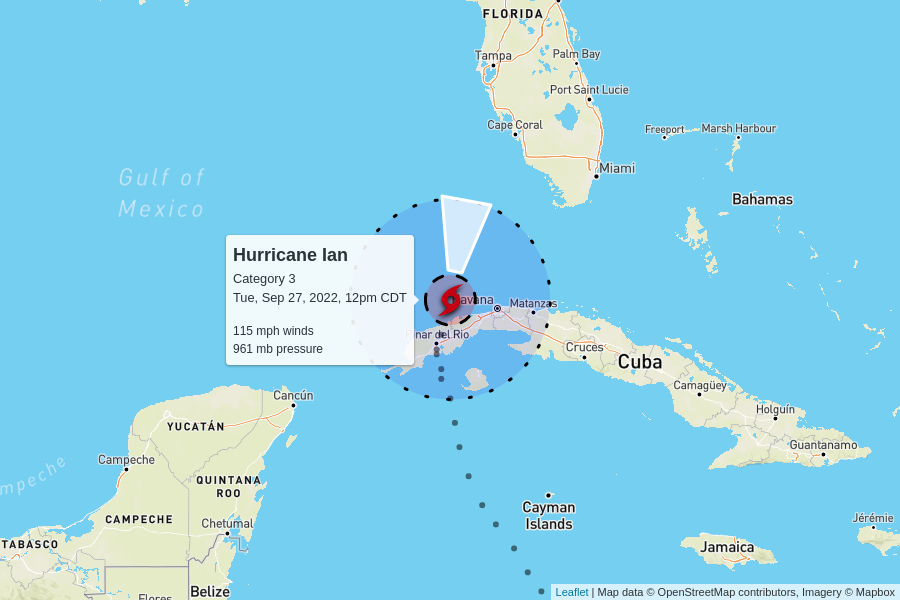
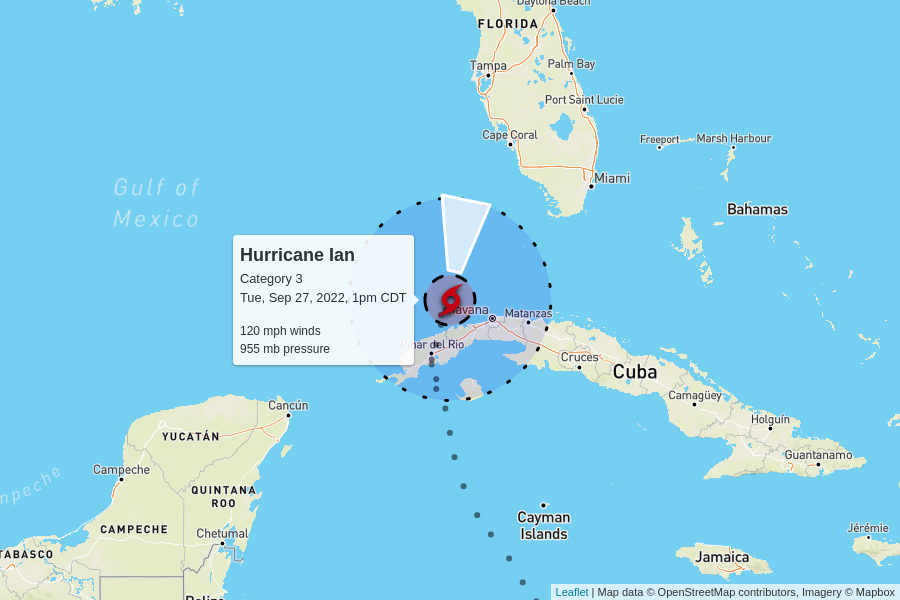
automatic update

diff --git a/docs/index.html b/docs/index.html
@@ -100,7 +100,7 @@
         <td colspan="6" class="storm category-3" >
           <h2>
             Hurricane Ian - Category 3
-            <p class="updated">last updated <span data-time>2022-09-27T17:00:00.000Z</span></p>
+            <p class="updated">last updated <span data-time>2022-09-27T18:00:00.000Z</span></p>
           </h2>
         </td>
       </tr>
@@ -115,8 +115,8 @@
       </tr>
       <tr>
         <td class="spacer"></td>
-        <td>115 mph</td>
-        <td>961 mb</td>
+        <td>120 mph</td>
+        <td>955 mb</td>
         <td>
           10 mph to the north
           <br/>
